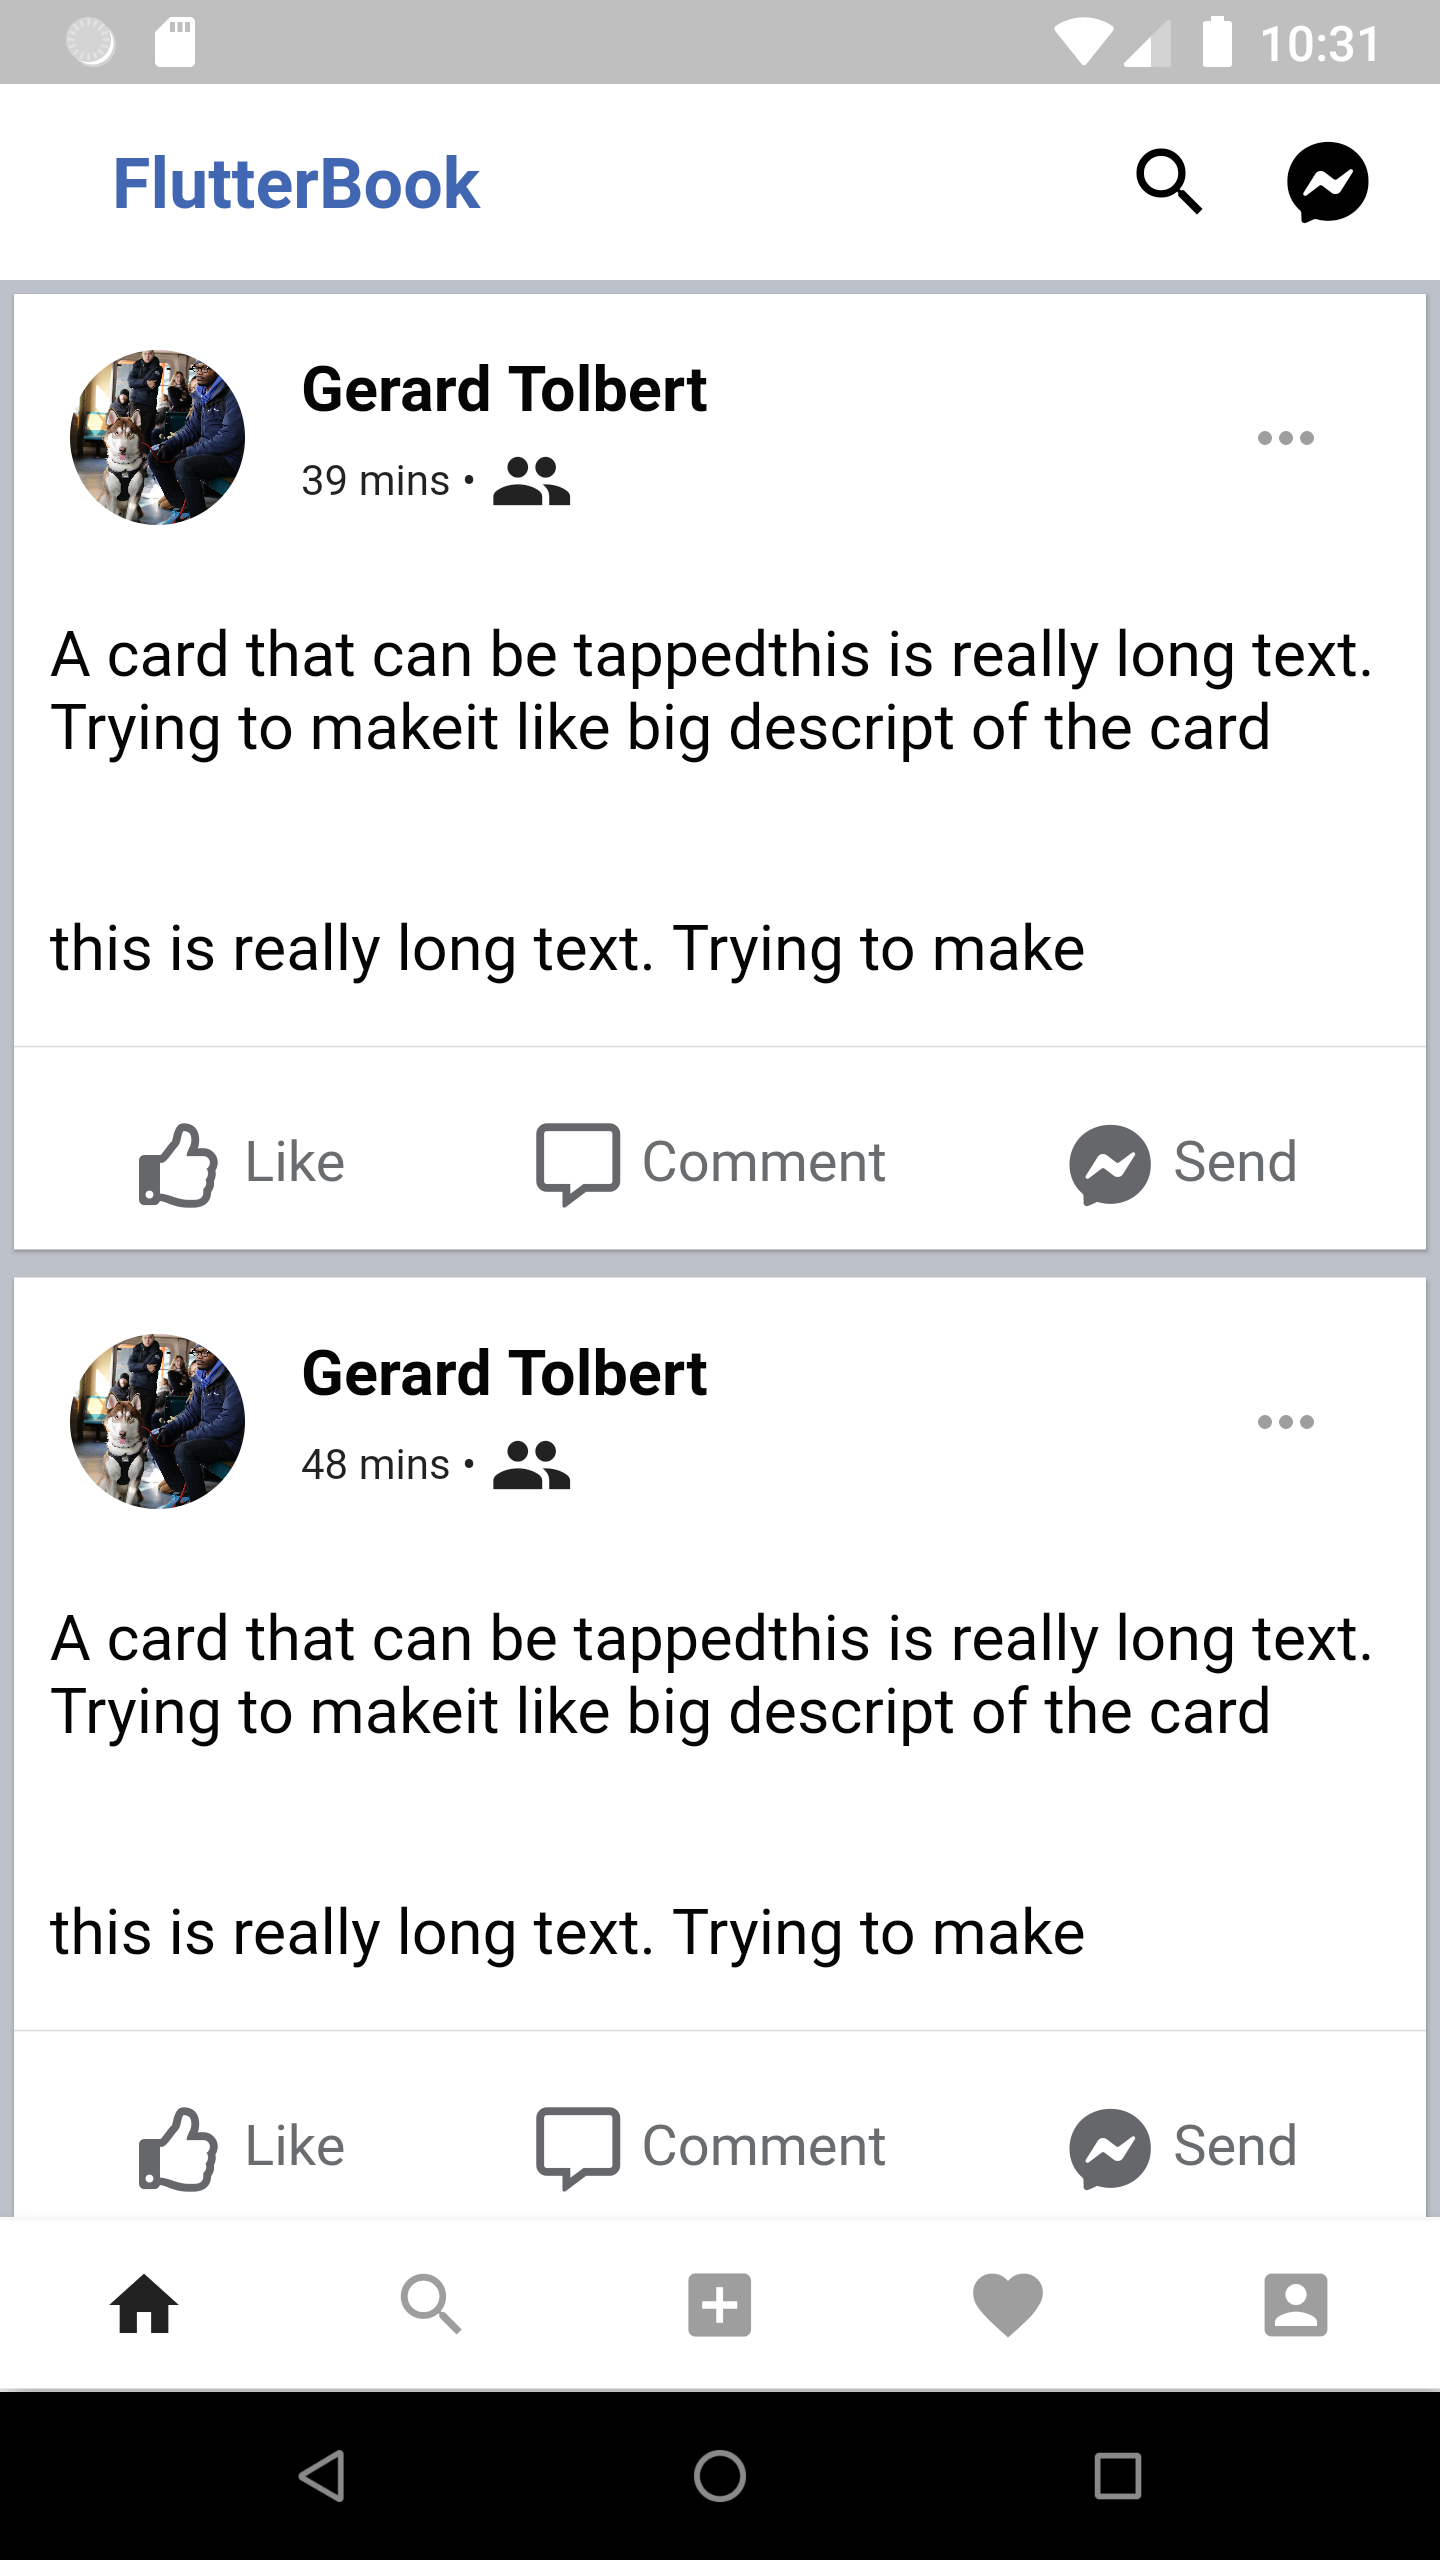
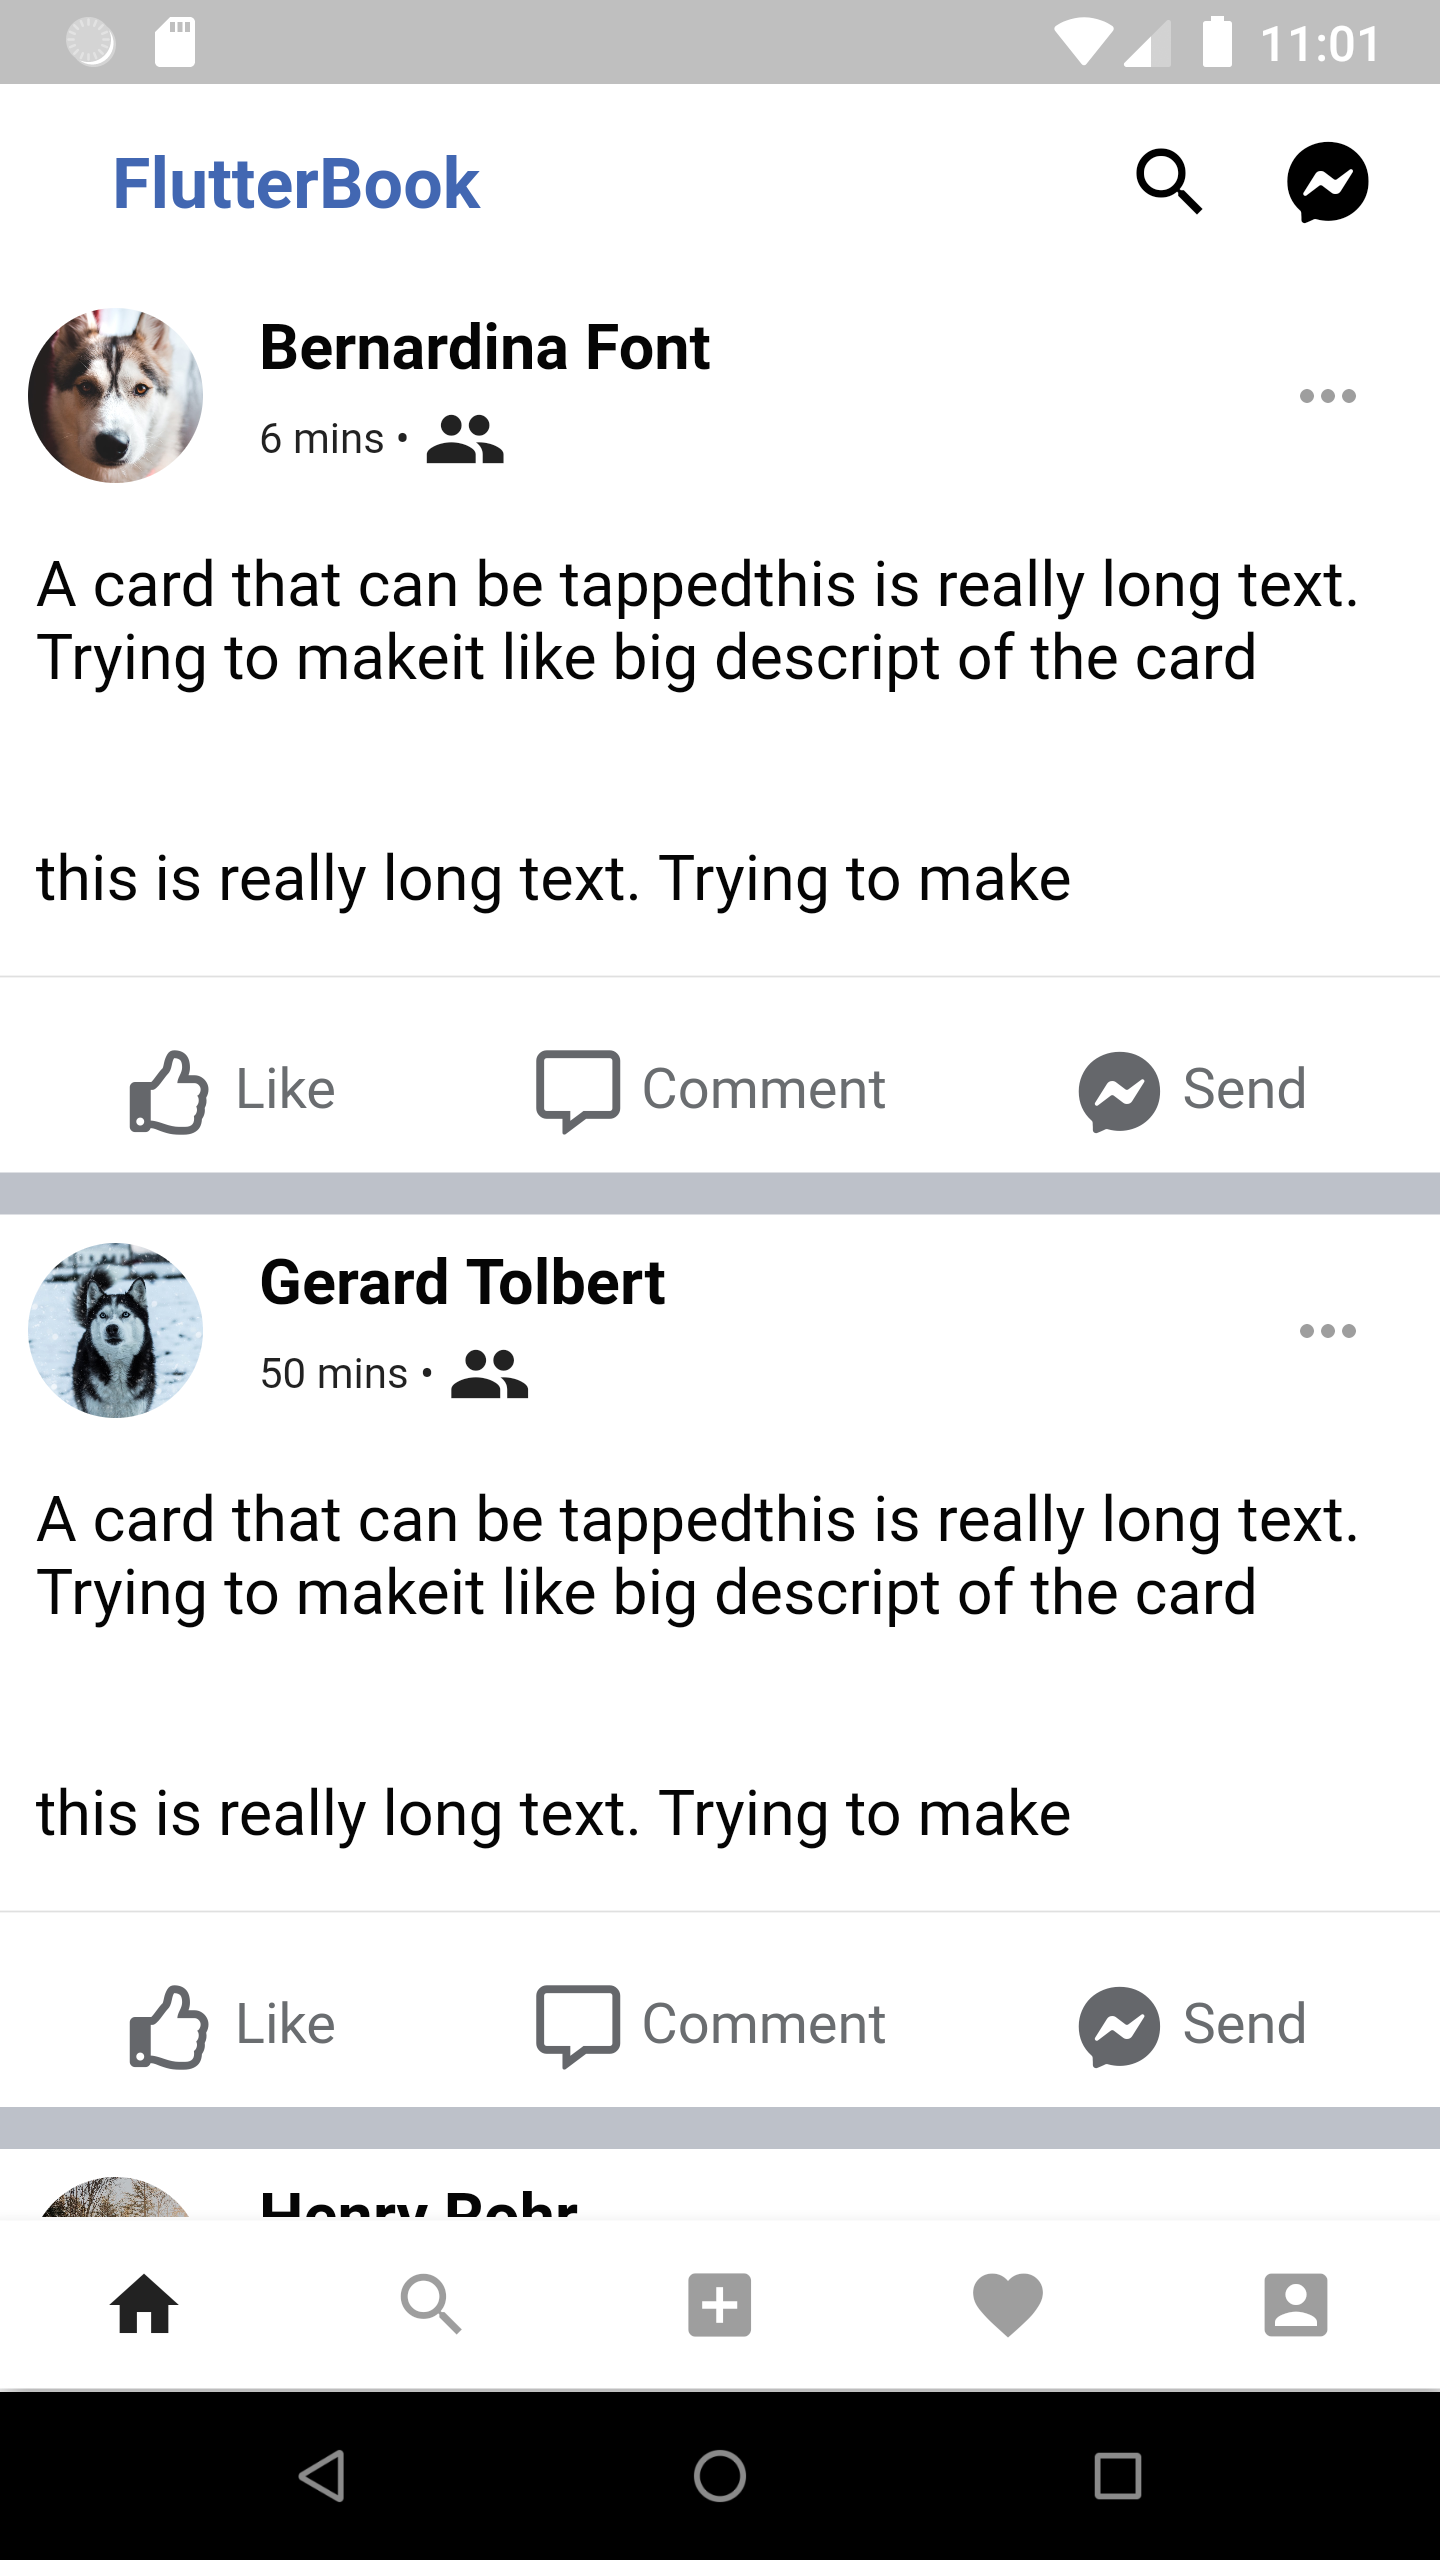
remove card marings and add divider

Changed region(s): [[0.0, 0.0938, 1.0, 0.875], [0.875, 0.0, 0.9375, 0.0312]]

diff --git a/flutterbook/lib/list2.dart b/flutterbook/lib/list2.dart
@@ -98,9 +98,9 @@ class HomeListState2 extends State<HomeList2> {
         width: 50,
         height: 50,
         child: ClipOval(
-                child: CachedNetworkImage(
+            child: CachedNetworkImage(
           placeholder: (context, url) => CircularProgressIndicator(),
-                  imageUrl: urls[Random().nextInt(urls.length)],
+          imageUrl: urls[Random().nextInt(urls.length)],
           width: 50,
           height: 50,
           fit: BoxFit.cover,
@@ -108,14 +108,12 @@ class HomeListState2 extends State<HomeList2> {
   }
 
   Widget buildBody(BuildContext context, int index) {
-    return SizedBox(width: double.maxFinite,
-    child: getContentCard(index));
-    // return getContentCard(index);
+    return getContentCard(index);
   }
 
   Widget getCardHeader(index) {
     return Container(
-            padding: const EdgeInsets.all(16.0),
+        padding: const EdgeInsets.all(8.0),
         child: new Row(
           children: <Widget>[
             getUserAvatar(),
@@ -151,10 +149,12 @@ class HomeListState2 extends State<HomeList2> {
 
   Widget getContentCard(index) {
     return Card(
+      margin: EdgeInsets.fromLTRB(0.0, 0.0, 0.0, 12.0),
       color: Color(0xFFFFFFFF),
       shape: RoundedRectangleBorder(
         borderRadius: BorderRadius.circular(0),
       ),
+      elevation: 0,
       child: InkWell(
         splashColor: Colors.red.withAlpha(30),
         onTap: () {
@@ -176,71 +176,71 @@ class HomeListState2 extends State<HomeList2> {
 
   Widget getCardFooter() {
     return Container(
-      height: 50,
+      height: 48,
       child: Row(
         children: <Widget>[
           Expanded(
             flex: 3,
             child: new Row(
-                    mainAxisAlignment: MainAxisAlignment.center,
-                    mainAxisSize: MainAxisSize.max,
-                    children: <Widget>[
-                      new Icon(
-                        FontAwesomeIcons.thumbsUp,
-                        color: Color(0xFF65676B),
-                      ),
-                      new SizedBox(width: 2.0),
-                      new Container(
-                        // color: Colors.yellow,
-                        padding: const EdgeInsets.symmetric(vertical: 12.0, horizontal: 4.0),
-                        child: Align(
-                          alignment: Alignment.centerRight,
-                          child: new Text("Like", style: getFooterCtaFontStyle()),
-                        ),
-                      )
-                    ]),
+                mainAxisAlignment: MainAxisAlignment.center,
+                mainAxisSize: MainAxisSize.max,
+                children: <Widget>[
+                  new Icon(
+                    FontAwesomeIcons.thumbsUp,
+                    color: Color(0xFF65676B),
+                  ),
+                  new SizedBox(width: 2.0),
+                  new Container(
+                    // color: Colors.yellow,
+                    padding: const EdgeInsets.symmetric(vertical: 12.0, horizontal: 4.0),
+                    child: Align(
+                      alignment: Alignment.centerRight,
+                      child: new Text("Like", style: getFooterCtaFontStyle()),
+                    ),
+                  )
+                ]),
           ),
           Expanded(
             flex: 3,
             child: new Row(
-                    mainAxisAlignment: MainAxisAlignment.center,
-                    mainAxisSize: MainAxisSize.max,
-                    children: <Widget>[
-                      new Icon(
-                        FontAwesomeIcons.commentAlt,
-                        color: Color(0xFF65676B),
-                      ),
-                      new SizedBox(width: 2.0),
-                      new Container(
-                        // color: Colors.yellow,
-                        padding: const EdgeInsets.symmetric(vertical: 8.0, horizontal: 4.0),
-                        child: Align(
-                          alignment: Alignment.centerRight,
-                          child: new Text("Comment", style: getFooterCtaFontStyle()),
-                        ),
-                      )
-                    ]),
+                mainAxisAlignment: MainAxisAlignment.center,
+                mainAxisSize: MainAxisSize.max,
+                children: <Widget>[
+                  new Icon(
+                    FontAwesomeIcons.commentAlt,
+                    color: Color(0xFF65676B),
+                  ),
+                  new SizedBox(width: 2.0),
+                  new Container(
+                    // color: Colors.yellow,
+                    padding: const EdgeInsets.symmetric(vertical: 8.0, horizontal: 4.0),
+                    child: Align(
+                      alignment: Alignment.centerRight,
+                      child: new Text("Comment", style: getFooterCtaFontStyle()),
+                    ),
+                  )
+                ]),
           ),
           Expanded(
             flex: 3,
             child: new Row(
-                    mainAxisAlignment: MainAxisAlignment.center,
-                    mainAxisSize: MainAxisSize.max,
-                    children: <Widget>[
-                      new Icon(
-                        FontAwesomeIcons.facebookMessenger,
-                        color: Color(0xFF65676B),
-                      ),
-                      new SizedBox(width: 2.0),
-                      new Container(
-                        // color: Colors.yellow,
-                        padding: const EdgeInsets.symmetric(vertical: 12.0, horizontal: 4.0),
-                        child: Align(
-                          alignment: Alignment.centerRight,
-                          child: new Text("Send", style: getFooterCtaFontStyle()),
-                        ),
-                      )
-                    ]),
+                mainAxisAlignment: MainAxisAlignment.center,
+                mainAxisSize: MainAxisSize.max,
+                children: <Widget>[
+                  new Icon(
+                    FontAwesomeIcons.facebookMessenger,
+                    color: Color(0xFF65676B),
+                  ),
+                  new SizedBox(width: 2.0),
+                  new Container(
+                    // color: Colors.yellow,
+                    padding: const EdgeInsets.symmetric(vertical: 12.0, horizontal: 4.0),
+                    child: Align(
+                      alignment: Alignment.centerRight,
+                      child: new Text("Send", style: getFooterCtaFontStyle()),
+                    ),
+                  )
+                ]),
           )
         ],
       ),
@@ -266,11 +266,7 @@ class HomeListState2 extends State<HomeList2> {
   Widget newsFeed() {
     return new ListView.builder(
         itemCount: listItems.length,
-            itemBuilder: (BuildContext context, int index) =>
-            /*Padding(
-                  padding: EdgeInsets.all(8.0),
-                  child: ,
-                )*/
+        itemBuilder: (BuildContext context, int index) =>
             buildBody(context, index));
   }
 
@@ -296,19 +292,19 @@ class HomeListState2 extends State<HomeList2> {
   Widget build(BuildContext context) {
     return new Scaffold(
         key: _scaffoldKey,
-        backgroundColor: Constants.DEFAULT_BG_COLOR,
-            body: isLoading ? loadingScreen() : newsFeed());
+        backgroundColor: Color(0xffBDC1C9),
+        body: isLoading ? loadingScreen() : newsFeed());
   }
 
   Widget getCardBody(index) {
     return Container(
       padding: const EdgeInsets.fromLTRB(10.0, 10.0, 10.0, 10.0),
       child: Text(
-              'A card that can be tapped'
-                      'this is really long text. Trying to make'
-                      'it like big descript of the card \n\n\n'
-                      'this is really long text. Trying to make',
-              style: getCardContentTextStyle()),
+          'A card that can be tapped'
+          'this is really long text. Trying to make'
+          'it like big descript of the card \n\n\n'
+          'this is really long text. Trying to make',
+          style: getCardContentTextStyle()),
     );
   }
 }
